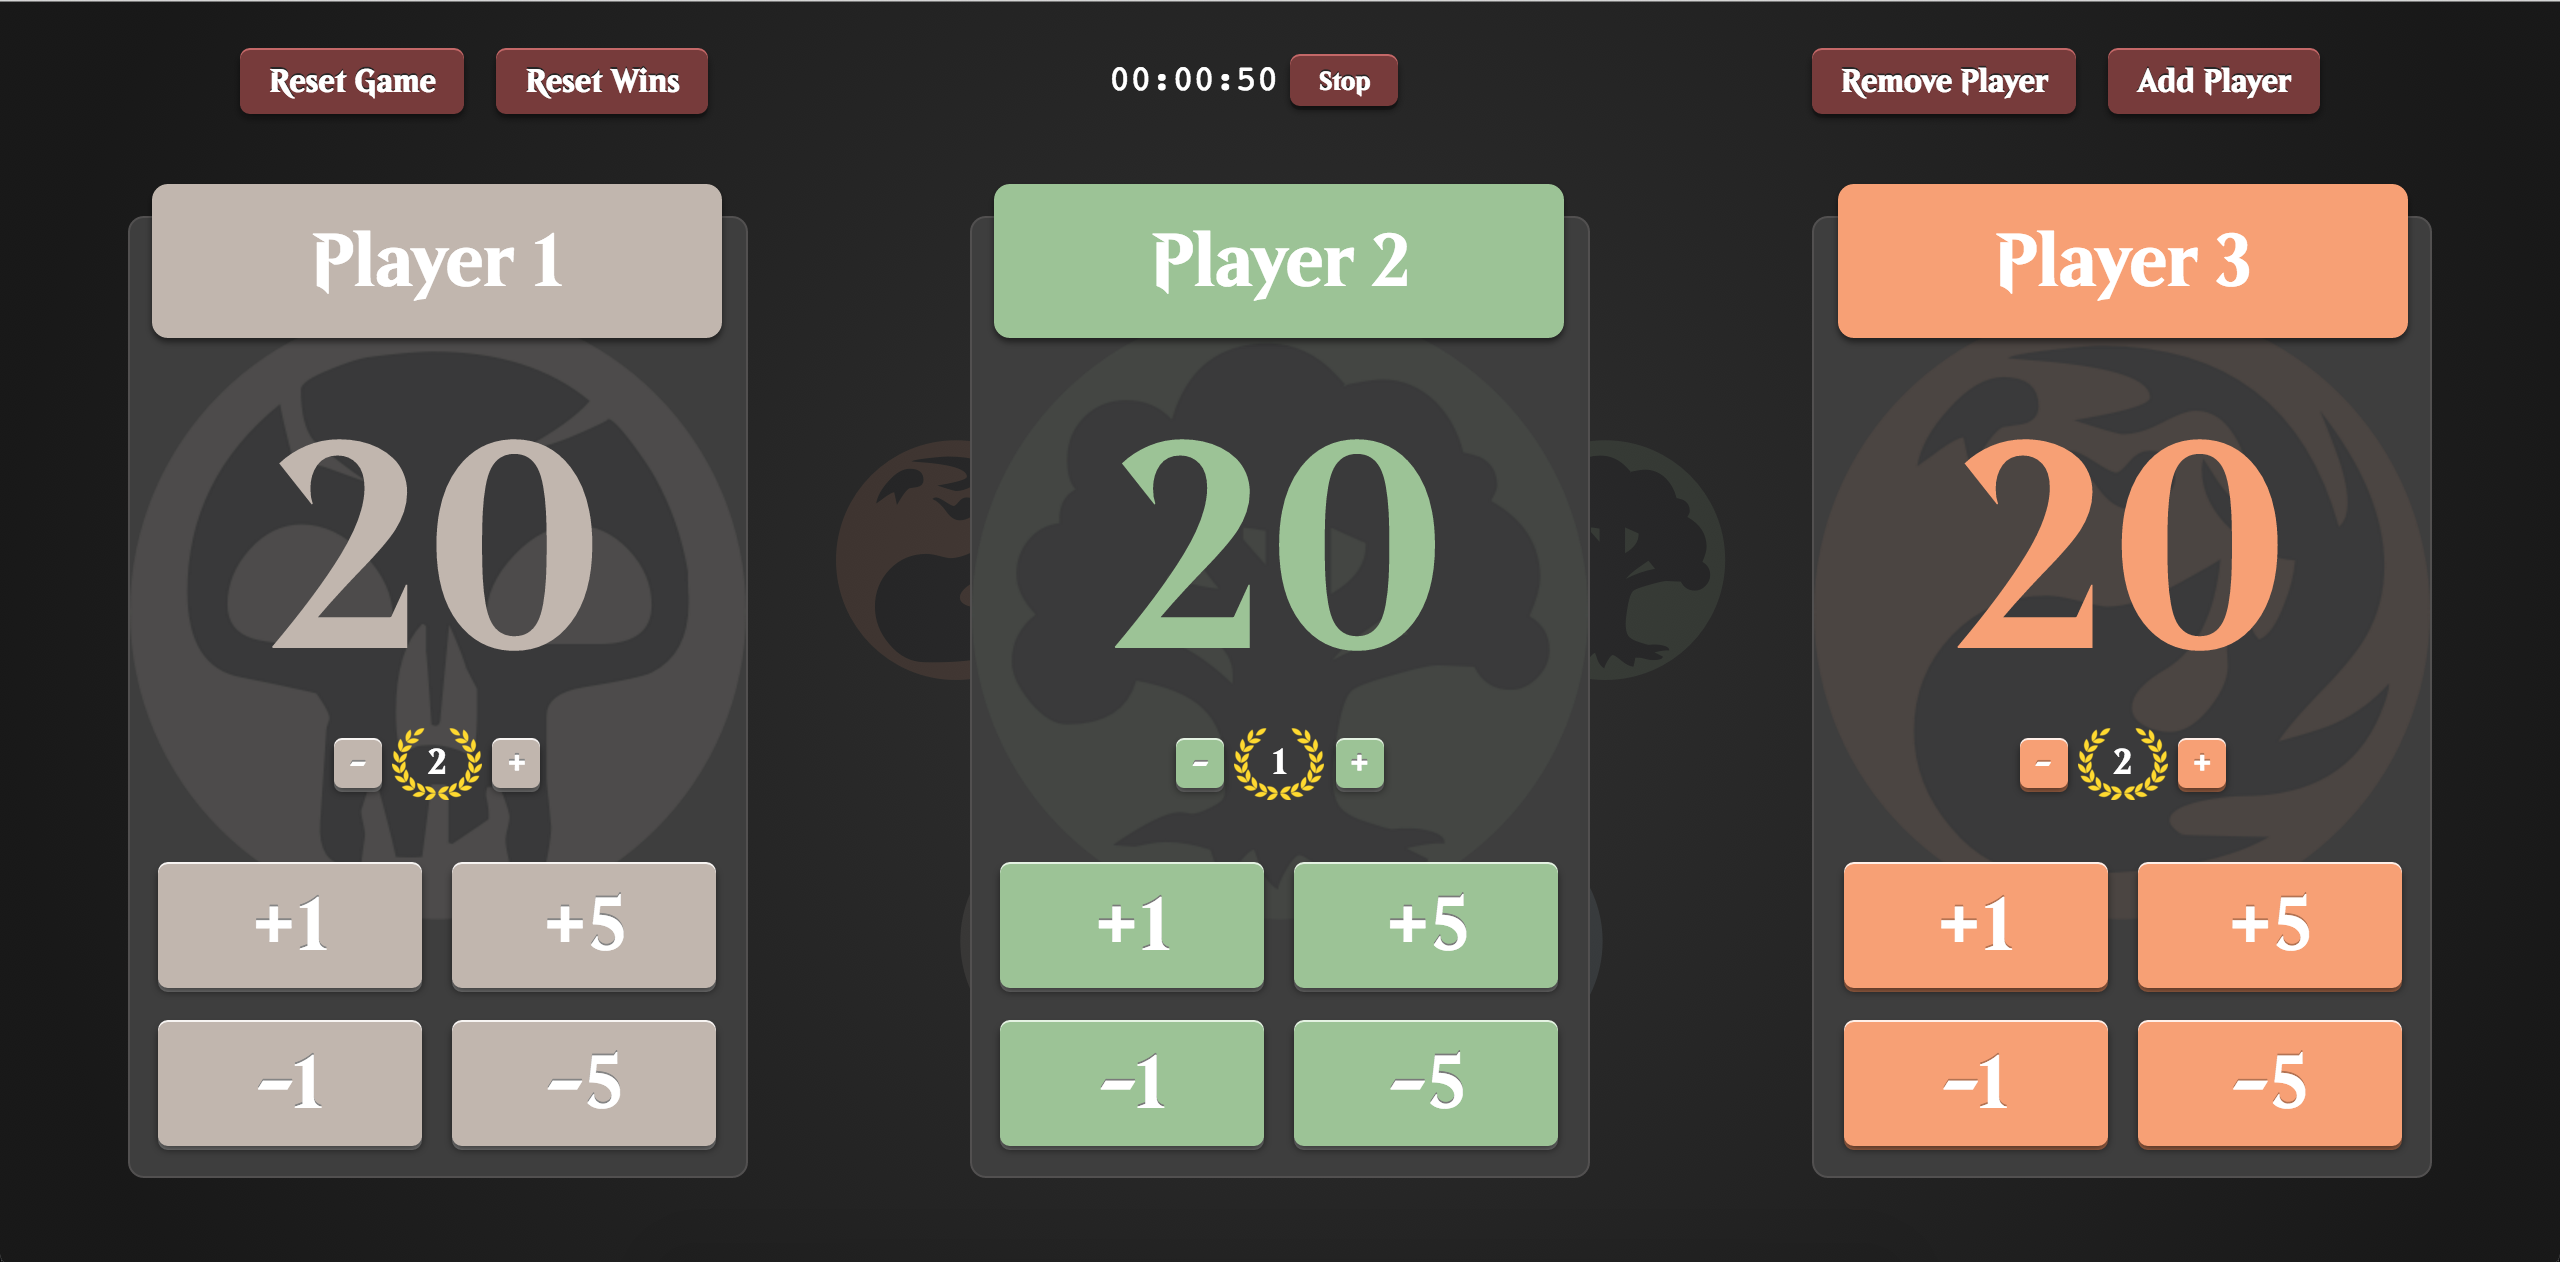
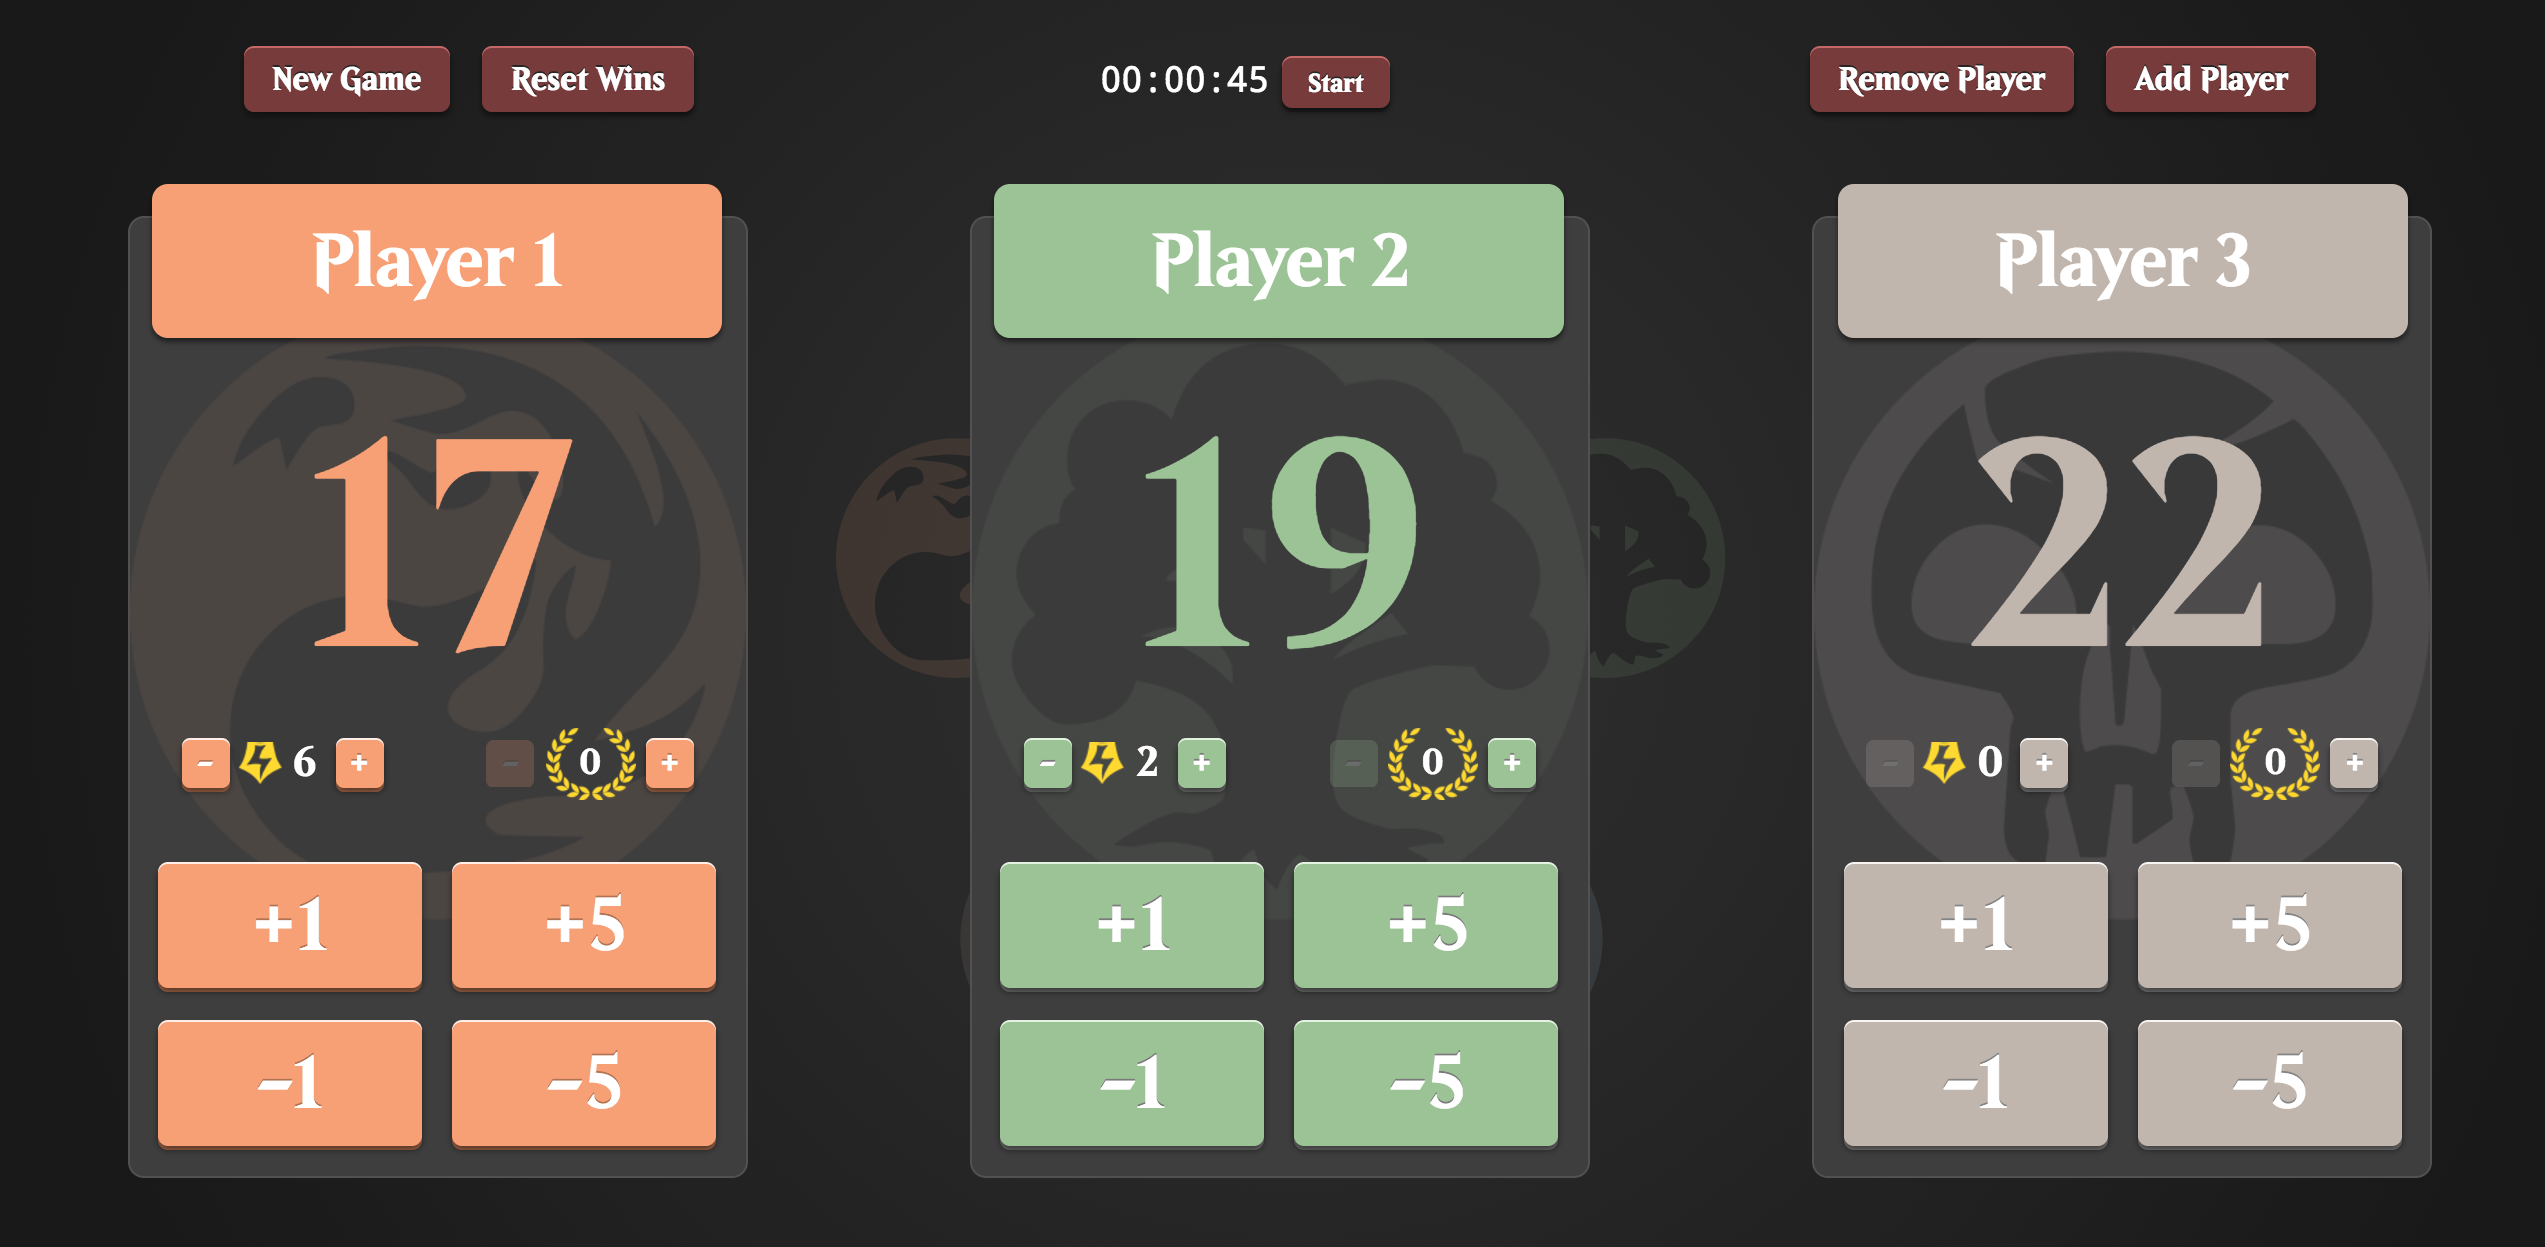
Update README

diff --git a/README.md b/README.md
@@ -1,10 +1,11 @@
 # Game Tracker
 
 A web app to keep track of your Magic: The Gathering games.
+[http://nelsonr.github.io/mtg/](http://nelsonr.github.io/mtg/)
 
 ![](screenshot.png)
 
-### Usage
+### Use offline
 
 1. Download the zip or clone the repo
 2. Open the index.html file inside the build folder
@@ -12,6 +13,7 @@ A web app to keep track of your Magic: The Gathering games.
 
 ### Features
 
+* Energy counter \**NEW* \*
 * Add up to 5 players
 * Track players life and wins
 * Change the name and color of the players
